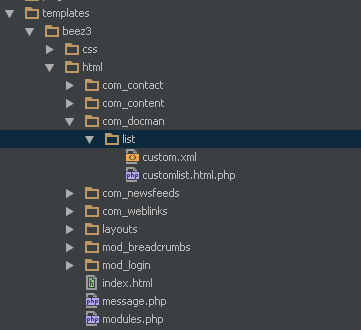
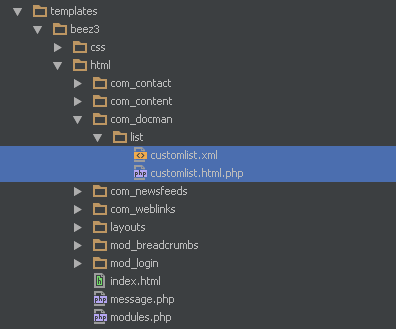
re#2 new image and edit

Changed region(s): [[0.0, 0.0, 1.0, 1.0]]

diff --git a/framework/template-system.md b/framework/template-system.md
@@ -44,11 +44,11 @@ for a special purpose. Maybe you want a differently formatted list of items, or 
  to that of the Template Override. Don't worry its very similar and is straight forward with Joomla! 2.5+ .
 
 Once you have identified the layout that you want to augment, copy it to the same folder that you would have for a template
-override *BUT* under a different name, i.e. `customlist.html.php`. This will let you load your new layout for a given item, just by adding
+override **BUT** under a different name, i.e. `customlist.html.php`. This will let you load your new layout for a given item, just by adding
 `layout=custom` to the URL of the page.
 
 If you would like to have your new layout available as a menu item, that is straight forward as well. In similar way, copy the original
-layout xml file to the same directory, and rename it to match your new layout name, but with the `.xml` instead of `.php` and no `html` part, i.e. `customlist.xml`.
+layout xml  file from the component view's layout director to the same override directory, and rename it to match your new layout name, but with the `.xml` instead of `.php` and no `html` part, i.e. `customlist.xml`.
 
 ![Custom Alternative Layout in Joomla](/resources/images/alternative-menu-item-layout-xml.png "Alternative List Menu Item")
 
